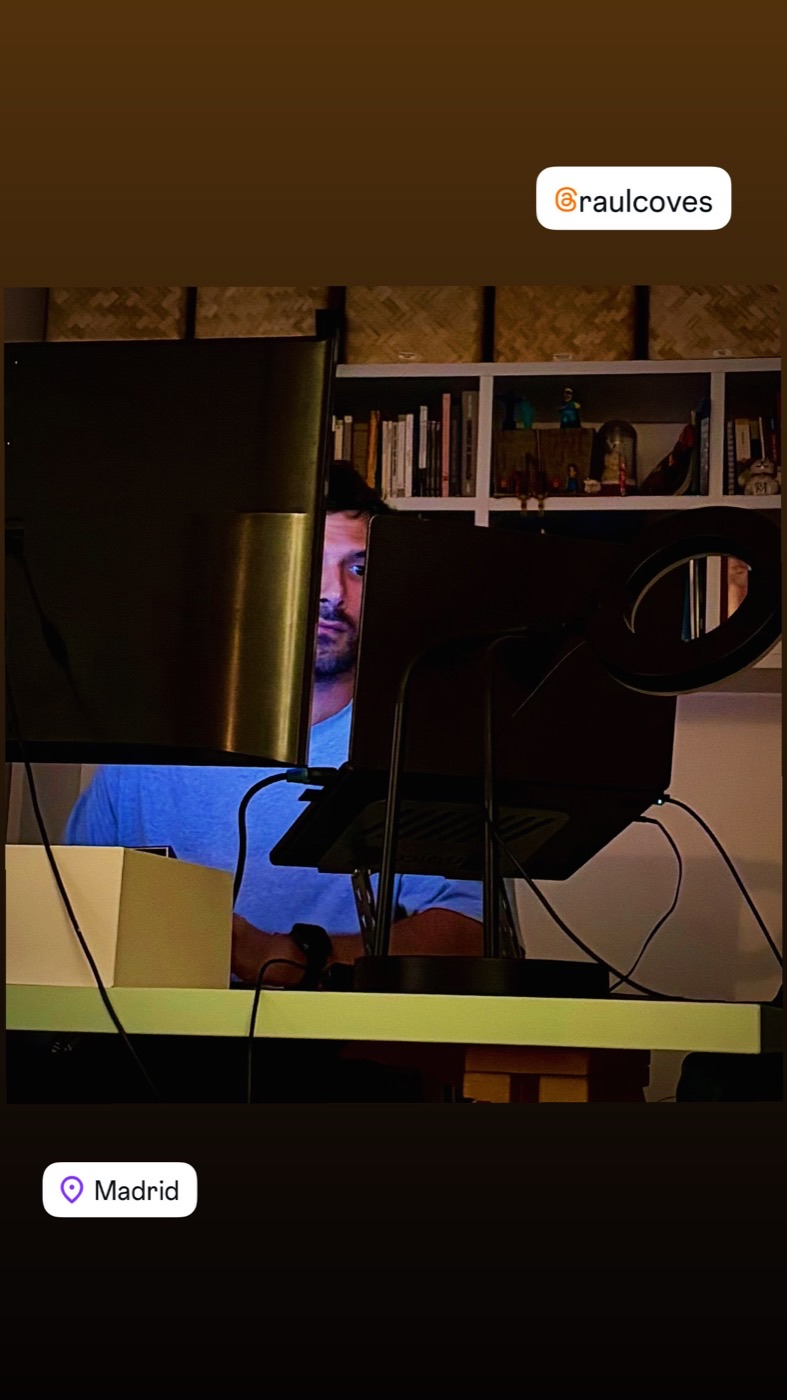
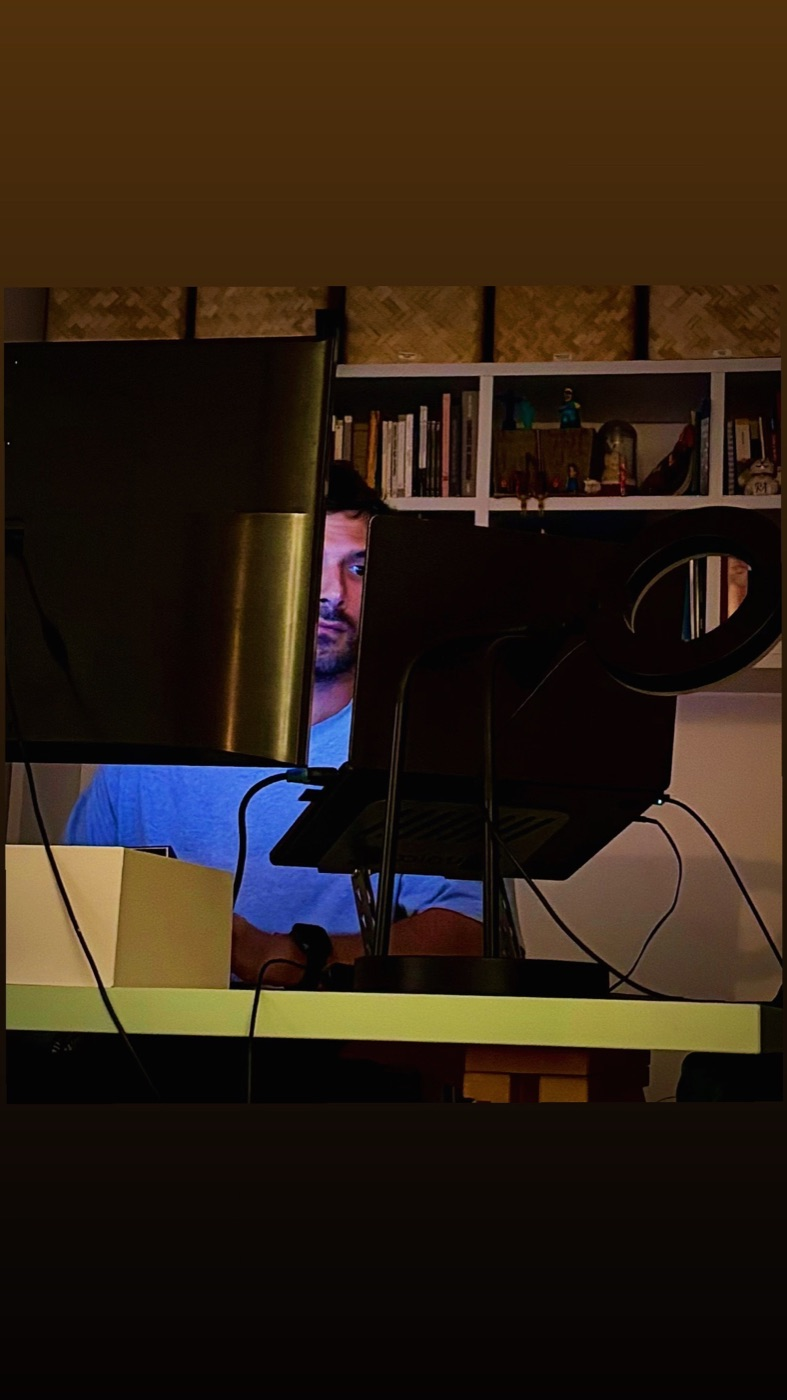
dump: -P72, +5 oublis (74-78), P01 sans labels, couverture cadrée tête

Changed region(s): [[0.6709, 0.0921, 0.9454, 0.1843], [0.0305, 0.8293, 0.2745, 0.8907]]

diff --git a/index.html b/index.html
@@ -1534,6 +1534,7 @@ being turned off` }
           lower: true,
           featured: true,
           thumb: "photos/myjob/52.jpg",
+          coverPos: "50% 18%",
           kind: "Photo series",
           subtitle: "a dump · paris · barcelona · madrid · antwerp",
           lead: "before autumn a summer died",
@@ -1602,8 +1603,12 @@ being turned off` }
             { src: "photos/myjob/69.jpg" },
             { src: "photos/myjob/70.jpg" },
             { src: "photos/myjob/71.jpg" },
-            { src: "photos/myjob/72.jpg" },
-            { src: "photos/myjob/73.jpg" }
+            { src: "photos/myjob/73.jpg" },
+            { src: "photos/myjob/74.jpg" },
+            { src: "photos/myjob/75.jpg" },
+            { src: "photos/myjob/76.jpg" },
+            { src: "photos/myjob/77.jpg" },
+            { src: "photos/myjob/78.jpg" }
           ]
         },
         {
@@ -2222,7 +2227,7 @@ function renderSection(s){
     const banner = p.thumb || p.cover || (p.photos && (p.photos.find(function(x){return x.src;})||{}).src);
     const pearlCover = p.type === 'pearls'
       ? `<div class="fcover pearl-cover">${Array.from({length:p.total||12},(_,i)=>{ const on = i < (p.pieces?.length||0); const col = on && p.pieces[i] && p.pieces[i].pearl ? p.pieces[i].pearl : ''; return `<span class="mini-pearl${on ? ' on' : ''}"${col ? ` style="background:${col}"` : ''}></span>`; }).join('')}</div>`
-      : (banner ? `<div class="fcover"><img src="${esc(banner)}" alt="cover of ${esc(p.title)}" loading="lazy"></div>` : '');
+      : (banner ? `<div class="fcover"><img src="${esc(banner)}" alt="cover of ${esc(p.title)}" loading="lazy"${p.coverPos ? ` style="object-position:${esc(p.coverPos)}"` : ''}></div>` : '');
     return `
       <a class="fcard" href="#/${s.id}/${p.id}">
         ${pearlCover}
